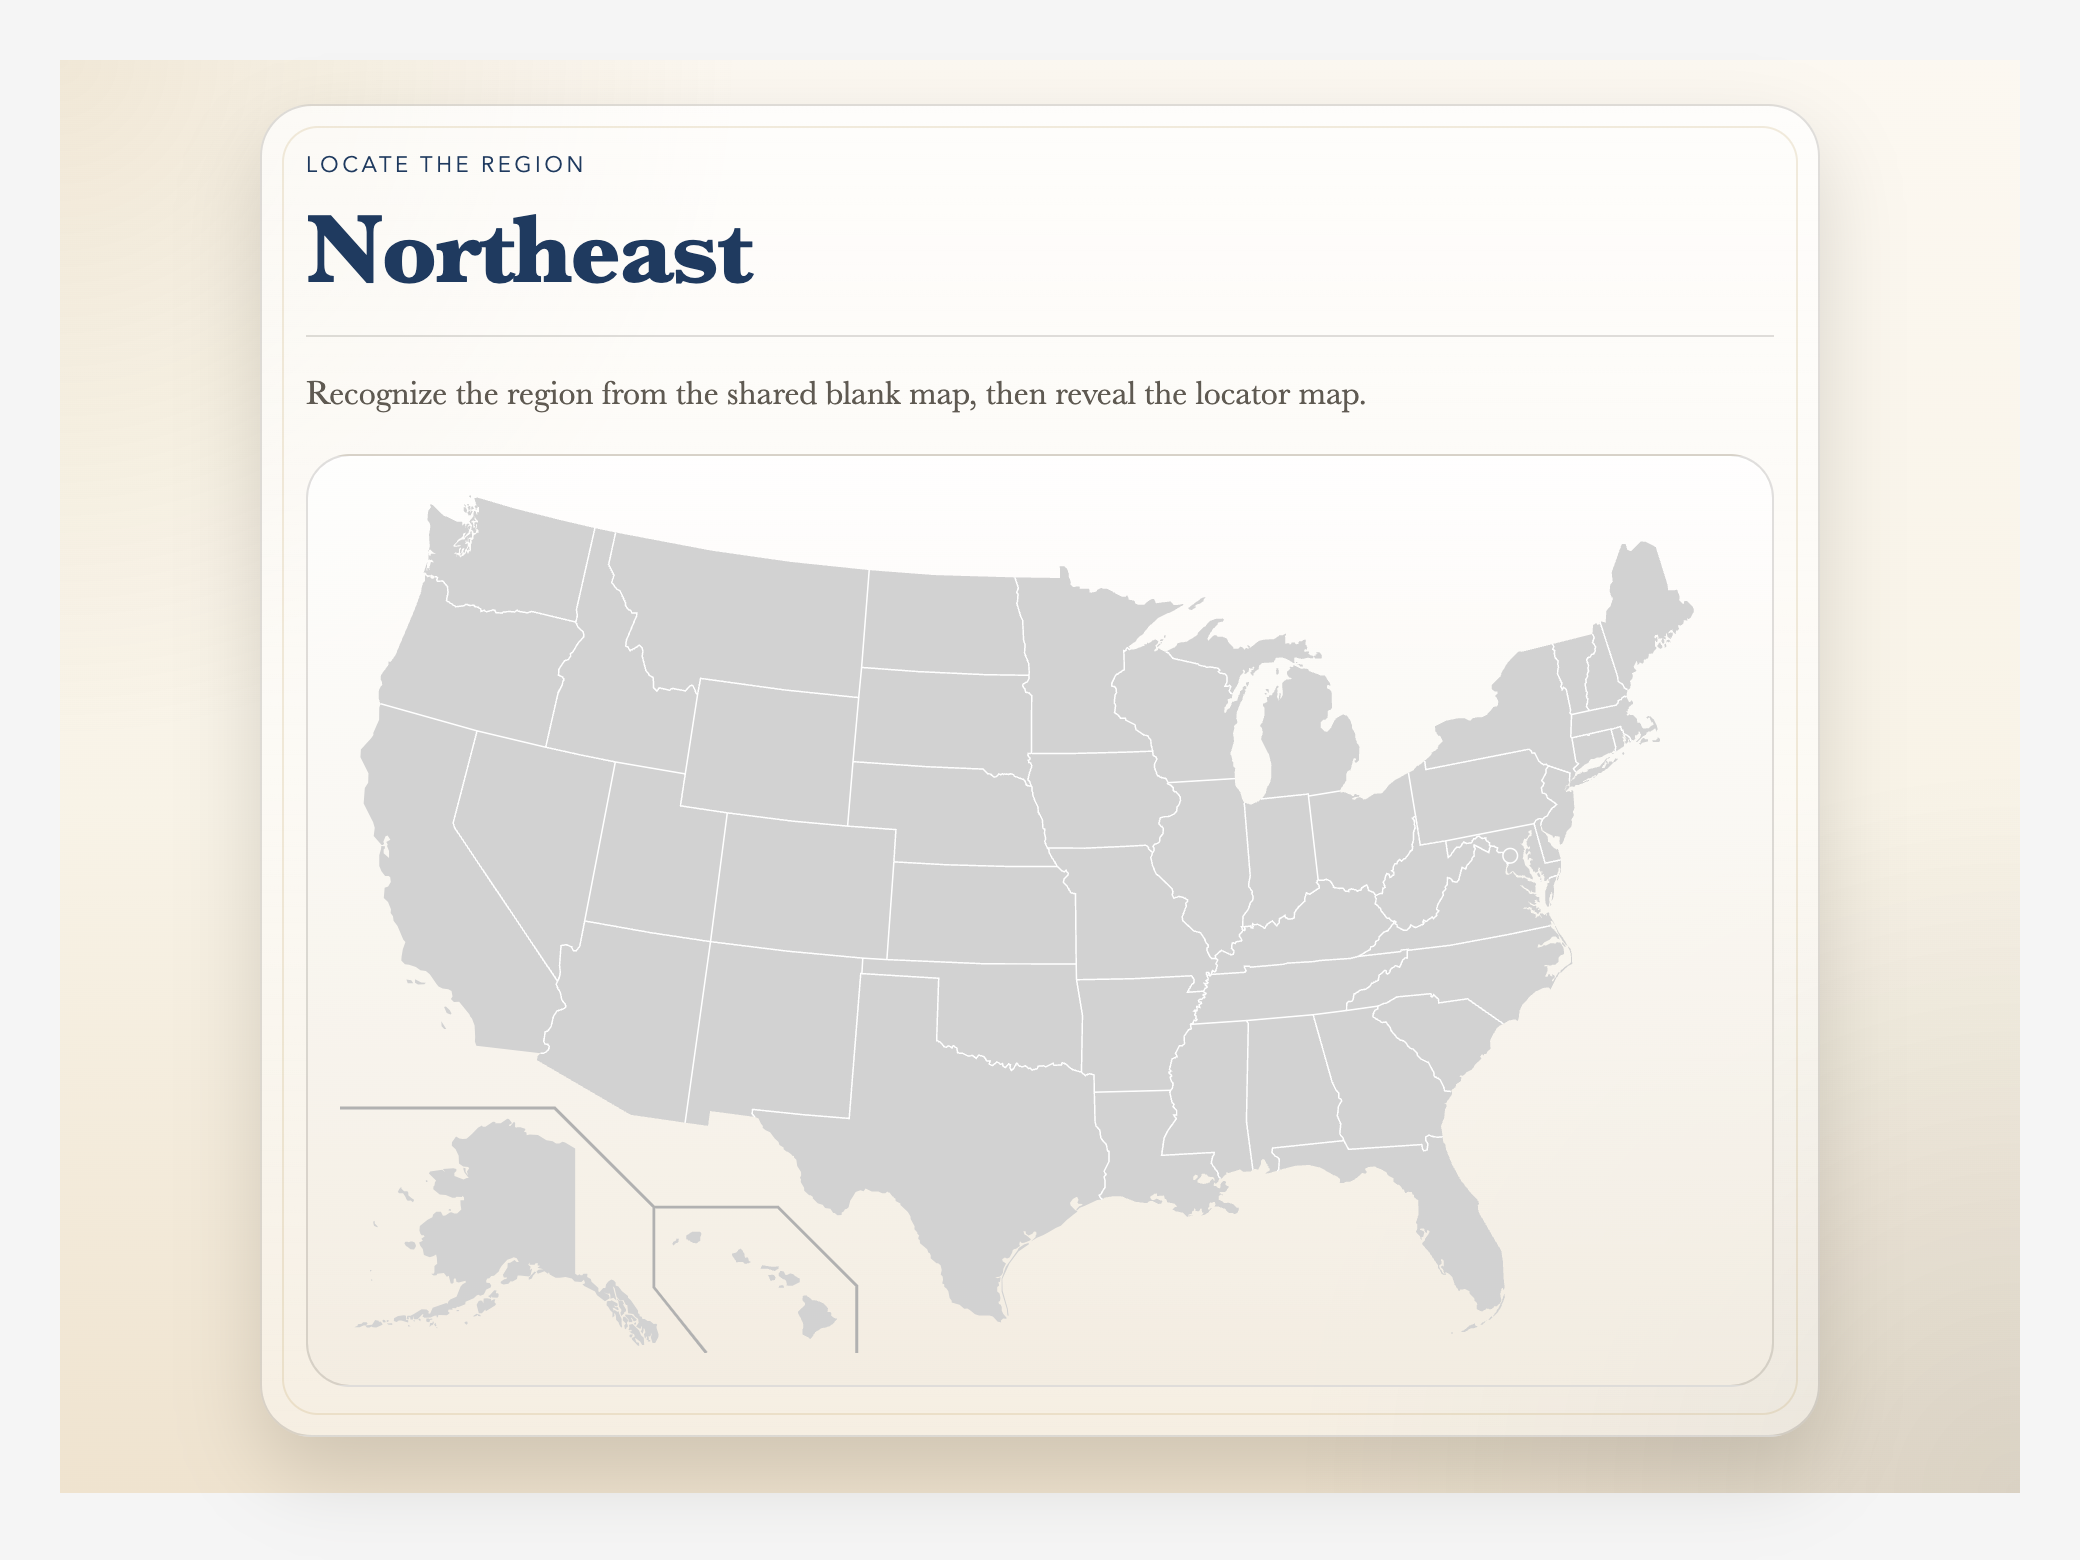
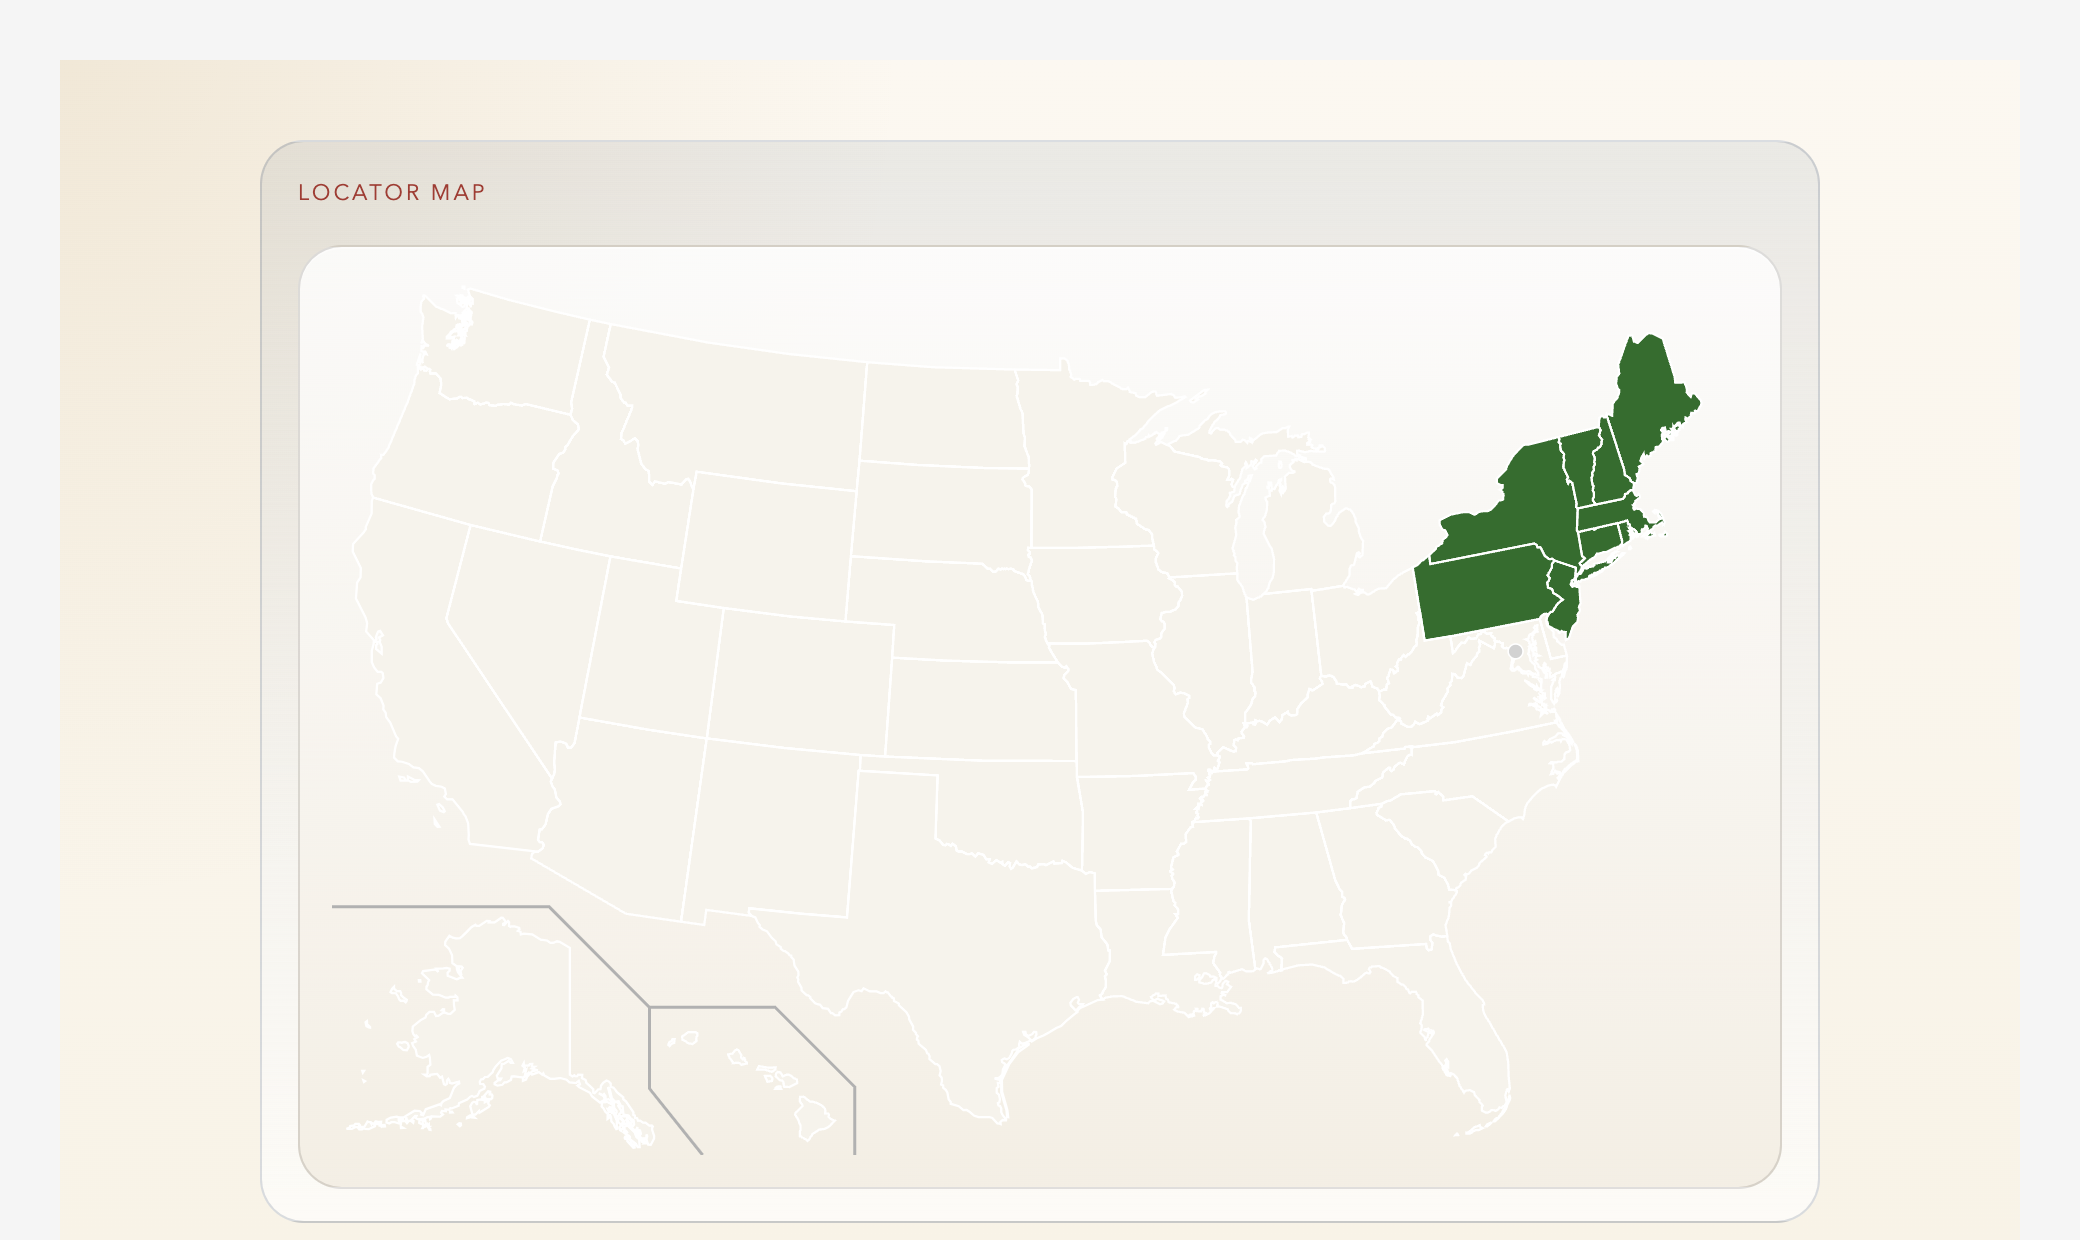
Polish README previews

Changed region(s): [[0.0938, 0.2758, 0.9688, 0.9806], [0.125, 0.0613, 0.6562, 0.3065], [0.0312, 0.0306, 0.0938, 0.0613]]

diff --git a/scripts/capture_readme_screenshot.py b/scripts/capture_readme_screenshot.py
@@ -2,6 +2,7 @@ from __future__ import annotations
 
 import argparse
 import json
+import os
 import subprocess
 import sys
 import tempfile
@@ -11,6 +12,9 @@ from pathlib import Path
 
 
 DEFAULT_OUT = Path("docs/screenshots/readme-preview.png")
+SIDE_ENV = "ANKI_README_SCREENSHOT_SIDE"
+WIDTH_ENV = "ANKI_README_SCREENSHOT_WIDTH"
+HEIGHT_ENV = "ANKI_README_SCREENSHOT_HEIGHT"
 
 
 PROBE_SOURCE = r'''
@@ -18,6 +22,7 @@ from __future__ import annotations
 
 import json
 import os
+import re
 import traceback
 from pathlib import Path
 
@@ -27,6 +32,9 @@ from aqt.webview import AnkiWebView
 
 RESULT_ENV = "ANKI_ADDON_WORKBENCH_RESULT"
 SCREENSHOT_ENV = "ANKI_ADDON_WORKBENCH_SCREENSHOT"
+SIDE_ENV = "ANKI_README_SCREENSHOT_SIDE"
+WIDTH_ENV = "ANKI_README_SCREENSHOT_WIDTH"
+HEIGHT_ENV = "ANKI_README_SCREENSHOT_HEIGHT"
 SETTLE_MS = 1800
 PREVIEW_WINDOW = None
 
@@ -66,6 +74,29 @@ def _write_result(payload):
         )
 
 
+def _answer_content(card):
+    html = card.answer()
+    styles = "".join(
+        re.findall(r"<style\b[^>]*>.*?</style>", html, flags=re.I | re.S)
+    )
+    lower = html.lower()
+    panel = lower.find('<div class="wrap"><div class="answer-panel"')
+    if panel == -1:
+        panel = lower.find('<div class="answer-panel"')
+    if panel != -1:
+        return styles + html[panel:]
+
+    marker = lower.find("id=answer")
+    if marker == -1:
+        return html
+
+    start = html.rfind("<hr", 0, marker)
+    end = html.find(">", marker)
+    if start == -1 or end == -1:
+        return html
+    return styles + html[end + 1 :]
+
+
 def _capture(card):
     global PREVIEW_WINDOW
     screenshot_path = os.environ.get(SCREENSHOT_ENV)
@@ -96,15 +127,19 @@ def _show_card():
     global PREVIEW_WINDOW
     try:
         card = _pick_card()
+        side = os.environ.get(SIDE_ENV, "question")
+        width = int(os.environ.get(WIDTH_ENV, "1040"))
+        height = int(os.environ.get(HEIGHT_ENV, "780"))
+        content = _answer_content(card) if side == "answer" else card.question()
         PREVIEW_WINDOW = QWidget(mw)
         PREVIEW_WINDOW.setWindowTitle("README card preview")
-        PREVIEW_WINDOW.resize(1040, 780)
+        PREVIEW_WINDOW.resize(width, height)
         layout = QVBoxLayout(PREVIEW_WINDOW)
         layout.setContentsMargins(0, 0, 0, 0)
         web = AnkiWebView(PREVIEW_WINDOW, title="README card preview")
         layout.addWidget(web)
         web.stdHtml(
-            f'<main class="card card{int(card.ord) + 1}">{card.question()}</main>',
+            f'<main class="card card{int(card.ord) + 1}">{content}</main>',
             context=mw.reviewer,
         )
         PREVIEW_WINDOW.show()
@@ -176,6 +211,13 @@ def parse_args() -> argparse.Namespace:
     )
     parser.add_argument("--out", type=Path, default=DEFAULT_OUT)
     parser.add_argument("--timeout", type=int, default=60)
+    parser.add_argument("--width", type=int, default=1040)
+    parser.add_argument("--height", type=int, default=780)
+    parser.add_argument(
+        "--side",
+        choices=("question", "answer", "front", "back"),
+        default="question",
+    )
     return parser.parse_args()
 
 
@@ -200,7 +242,13 @@ def main() -> int:
             "--timeout",
             str(args.timeout),
         ]
-        completed = subprocess.run(command, check=False, text=True)
+        env = {
+            **os.environ,
+            WIDTH_ENV: str(args.width),
+            HEIGHT_ENV: str(args.height),
+            SIDE_ENV: "answer" if args.side in {"answer", "back"} else "question",
+        }
+        completed = subprocess.run(command, check=False, text=True, env=env)
     return completed.returncode
 
 

diff --git a/README.md b/README.md
@@ -2,7 +2,6 @@
 
 [![Anki Workbench](https://github.com/elvis-sik/us-regions/actions/workflows/anki-workbench.yml/badge.svg)](https://github.com/elvis-sik/us-regions/actions/workflows/anki-workbench.yml)
 ![Python 3.12+](https://img.shields.io/badge/python-3.12%2B-blue)
-![Anki Workbench 0.4.0](https://img.shields.io/badge/anki--addon--workbench-0.4.0-informational)
 [![License: MIT](https://img.shields.io/badge/license-MIT-green.svg)](LICENSE)
 
 An Anki deck generator for the U.S. Census Bureau's four regions and nine divisions, with map-based cards for regions, divisions, and member states.
@@ -118,14 +117,6 @@ Build the Anki package:
 Output:
 
 - `out/us-regions.apkg`
-
-## Preview screenshot
-
-The README screenshot is generated from the built APKG in a disposable Anki profile:
-
-```sh
-uv run --extra dev python scripts/capture_readme_screenshot.py
-```
 
 ## Sources
 